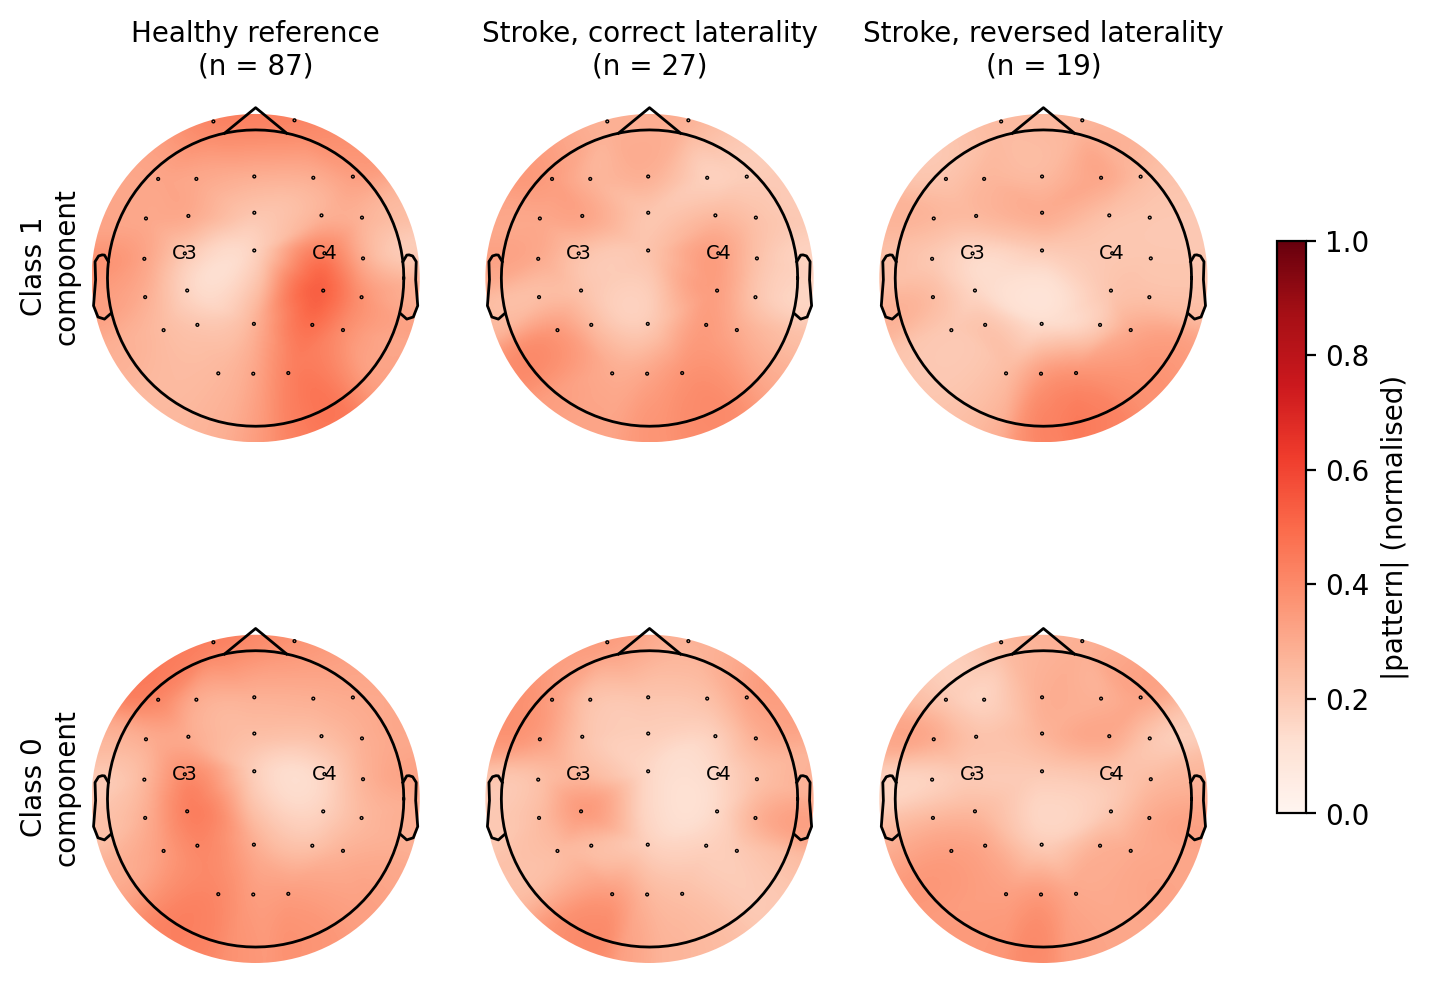
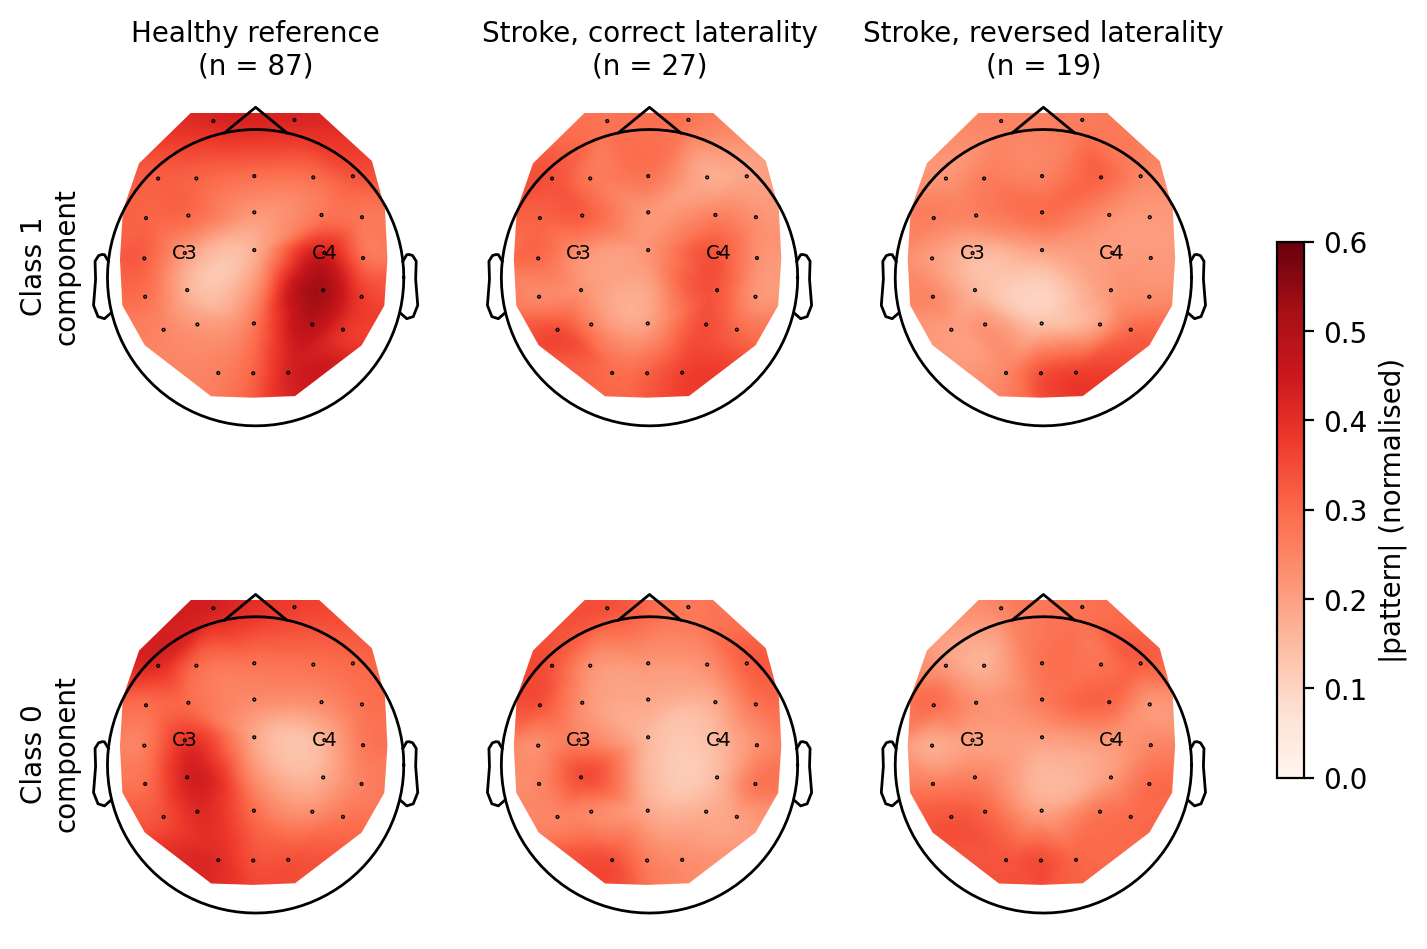
Remove stale three-group figures; publication versions of Figs 1, 2, 5, 8, 10, 11

diff --git a/redraw_figures.py b/redraw_figures.py
@@ -1,0 +1,122 @@
+"""redraw_figures.py - publication versions of Figs 5, 8, 10 and 11, drawn only from saved
+outputs (outputs/pipeline_results.json, outputs/statistics.json, outputs/robustness_frozen.csv). Nothing is recomputed.
+Usage: python redraw_figures.py        -> figures/fig5_..., fig8_..., fig10_..., fig11_...png"""
+import json
+import os
+
+import matplotlib
+matplotlib.use("Agg")
+import matplotlib.pyplot as plt
+import numpy as np
+import pandas as pd
+
+ROOT = os.path.dirname(os.path.abspath(__file__))
+OUT = os.path.join(ROOT, "figures")
+os.makedirs(OUT, exist_ok=True)
+plt.rcParams.update({"font.size": 8, "axes.titlesize": 8.5, "axes.labelsize": 8, "xtick.labelsize": 7.5,
+                     "ytick.labelsize": 7.5, "legend.fontsize": 7, "axes.spines.top": False,
+                     "axes.spines.right": False})
+COL = {"healthy": "#4e79a7", "stroke": "#e15759"}
+NAME = {"healthy": "Healthy reference", "stroke": "Stroke"}
+PH = ["Phase1", "Phase2", "Phase3"]
+ALPHA = {"Phase1": 1.0, "Phase2": 0.65, "Phase3": 0.35}
+
+r = json.load(open(os.path.join(ROOT, "outputs", "pipeline_results.json")))
+stats = json.load(open(os.path.join(ROOT, "outputs", "statistics.json")))
+P = r["phase_results"]
+
+
+def save(fig, name):
+    path = os.path.join(OUT, name)
+    fig.savefig(path, dpi=300, bbox_inches="tight")
+    plt.close(fig)
+    print("wrote", path)
+
+
+def chance(ax):
+    ax.axhline(0.5, color="black", ls=":", lw=1, zorder=0)
+
+
+# ---- Fig. 5: per-user calibration vs transfer to a new user (repeated grouped CV, as in Table 4)
+rb = pd.read_csv(os.path.join(ROOT, "outputs", "robustness_frozen.csv"))
+sel = rb[(rb.pipeline == "CSP+RF") & (rb.norm == "none")]
+fig, ax = plt.subplots(figsize=(3.4, 2.8))
+x = np.arange(2)
+for j, (reg, prot, spread, lab, a) in enumerate([
+        ("within", "inside_fold", "sd_subjects", "Within-subject (calibrated)", 1.0),
+        ("cross", "grouped_inside_fold", "sd_repeats", "Cross-subject (new user)", 0.45)]):
+    m = [sel[(sel.group == g) & (sel.regime == reg) & (sel.protocol == prot)]["mean"].iloc[0] for g in COL]
+    e = [sel[(sel.group == g) & (sel.regime == reg) & (sel.protocol == prot)][spread].iloc[0] for g in COL]
+    ax.bar(x + (j - 0.5) * 0.38, m, 0.36, yerr=e, capsize=3, color=list(COL.values()), alpha=a,
+           edgecolor="black", linewidth=0.5, label=lab)
+    for xi, v in zip(x + (j - 0.5) * 0.38, m):
+        ax.text(xi, 0.405, f"{v:.3f}", ha="center", fontsize=6.5, color="white" if a == 1 else "black")
+chance(ax)
+ax.set_xticks(x)
+ax.set_xticklabels([NAME[g] for g in COL])
+ax.set_ylabel("Accuracy")
+ax.set_ylim(0.4, 0.8)
+h = [plt.Rectangle((0, 0), 1, 1, color="grey", alpha=a, ec="black", lw=0.5) for a in (1.0, 0.45)]
+ax.legend(h, ["Within-subject (calibrated)", "Cross-subject (new user)"], loc="upper right", frameon=False)
+save(fig, "fig5_calibration_vs_transfer.png")
+
+# ---- Fig. 8: within-subject accuracy by group and phase
+fig, ax = plt.subplots(figsize=(3.6, 2.8))
+w = 0.26
+for i, ph in enumerate(PH):
+    m = [P[ph][g]["rf_mean"] for g in COL]
+    e = [P[ph][g]["rf_std"] for g in COL]
+    ax.bar(np.arange(2) + (i - 1) * w, m, w * 0.94, yerr=e, capsize=2.5, color=list(COL.values()),
+           alpha=ALPHA[ph], edgecolor="black", linewidth=0.5)
+chance(ax)
+ax.set_xticks(np.arange(2))
+ax.set_xticklabels([NAME[g] for g in COL])
+ax.set_ylabel("Within-subject accuracy")
+ax.set_ylim(0.3, 0.85)
+h = [plt.Rectangle((0, 0), 1, 1, color="grey", alpha=ALPHA[p], ec="black", lw=0.5) for p in PH]
+ax.legend(h, ["Phase 1, no gain", "Phase 2, population reference", "Phase 3, subject reference"],
+          loc="upper center", bbox_to_anchor=(0.5, -0.16), ncol=1, frameon=False)
+save(fig, "fig8_accuracy_by_phase.png")
+
+# ---- Fig. 10: change in stroke accuracy under each amplification design, with 95% CI
+fig, ax = plt.subplots(figsize=(3.0, 2.6))
+rows = [stats[f"{ph}|stroke"] for ph in ("Phase2", "Phase3")]
+m = [s["mean_change_pp"] for s in rows]
+lo = [s["mean_change_pp"] - s["ci_low_pp"] for s in rows]
+hi = [s["ci_high_pp"] - s["mean_change_pp"] for s in rows]
+ax.bar([0, 1], m, 0.55, yerr=[lo, hi], capsize=4, color=COL["stroke"], alpha=0.8, edgecolor="black", linewidth=0.5)
+for xi, s in zip([0, 1], rows):
+    ax.text(xi, s["ci_high_pp"] + 0.25, f"{s['mean_change_pp']:+.2f} pp\np = {s['p_paired_t']:.3f}",
+            ha="center", fontsize=7)
+ax.axhline(0, color="black", lw=0.8)
+ax.set_xticks([0, 1])
+ax.set_xticklabels(["Phase 2\npopulation reference", "Phase 3\nsubject reference"])
+ax.set_ylabel("Change in stroke accuracy (pp)")
+ax.set_ylim(-4, 4.2)
+ax.set_xlim(-0.6, 1.6)
+save(fig, "fig10_amplification_effect.png")
+
+# ---- Fig. 11: navigation outcomes
+nav = r["navigation"]
+metrics = [("Goal completion (%)", lambda rs: 100 * np.mean([t["reached_goal"] for t in rs])),
+           ("Steps to goal", lambda rs: np.mean([t["n_steps"] for t in rs])),
+           ("Collisions per trial", lambda rs: np.mean([t["n_collisions"] for t in rs])),
+           ("Commands blocked (%)", lambda rs: 100 * np.mean([t["override_rate"] for t in rs]))]
+fig, axes = plt.subplots(1, 4, figsize=(7.2, 2.3))
+for ax, (title, fn) in zip(axes, metrics):
+    for i, ph in enumerate(PH):
+        vals = [fn(nav[ph][g]) for g in COL]
+        ax.bar(np.arange(2) + (i - 1) * w, vals, w * 0.94, color=list(COL.values()), alpha=ALPHA[ph],
+               edgecolor="black", linewidth=0.5)
+    ax.set_title(title)
+    ax.set_xticks(np.arange(2))
+    ax.set_xticklabels(["Healthy\nreference", "Stroke"])
+    if "Collisions" in title:
+        ax.set_ylim(0, 1)
+        ax.text(0.5, 0.5, "0 in every\ngroup and phase", ha="center", va="center", transform=ax.transAxes, fontsize=7)
+    if "Goal" in title:
+        ax.set_ylim(0, 110)
+fig.tight_layout(w_pad=1.2)
+fig.legend(h, ["Phase 1, no gain", "Phase 2, population reference", "Phase 3, subject reference"],
+           loc="upper center", bbox_to_anchor=(0.5, 0.02), ncol=3, frameon=False)
+save(fig, "fig11_navigation.png")

diff --git a/csp_patterns.py b/csp_patterns.py
@@ -73,7 +73,9 @@ def main():
     info = mne.create_info(names, SFREQ, "eeg")
     info.set_montage(mne.channels.make_standard_montage("standard_1020"))
 
-    fig, axes = plt.subplots(2, 3, figsize=(9, 6.2))
+    vmax = max(np.array(p)[:, i, :].mean(axis=0).max() for p in groups.values() if len(p) for i in range(2))
+    vmax = float(np.ceil(vmax * 10) / 10)          # one shared colour scale, fitted to the data
+    fig, axes = plt.subplots(2, 3, figsize=(9, 5.8))
     summary = {}
     for j, (label, pats) in enumerate(groups.items()):
         P = np.array(pats)                  # subjects x 2 x channels
@@ -88,7 +90,7 @@ def main():
             mean = P[:, i, :].mean(axis=0)
             summary[label][comp] = {ch: round(float(v), 3) for ch, v in zip(CANONICAL_CHANS, mean)}
             im, _ = mne.viz.plot_topomap(mean, info, axes=axes[i, j], show=False, cmap="Reds",
-                                         vlim=(0, 1), contours=0, sensors=True,
+                                         vlim=(0, vmax), contours=0, sensors=True, extrapolate="local",
                                          names=[n if n in ("C3", "C4") else "" for n in names])
             if i == 0:
                 axes[i, j].set_title(f"{label}\n(n = {len(pats)})", fontsize=10)
